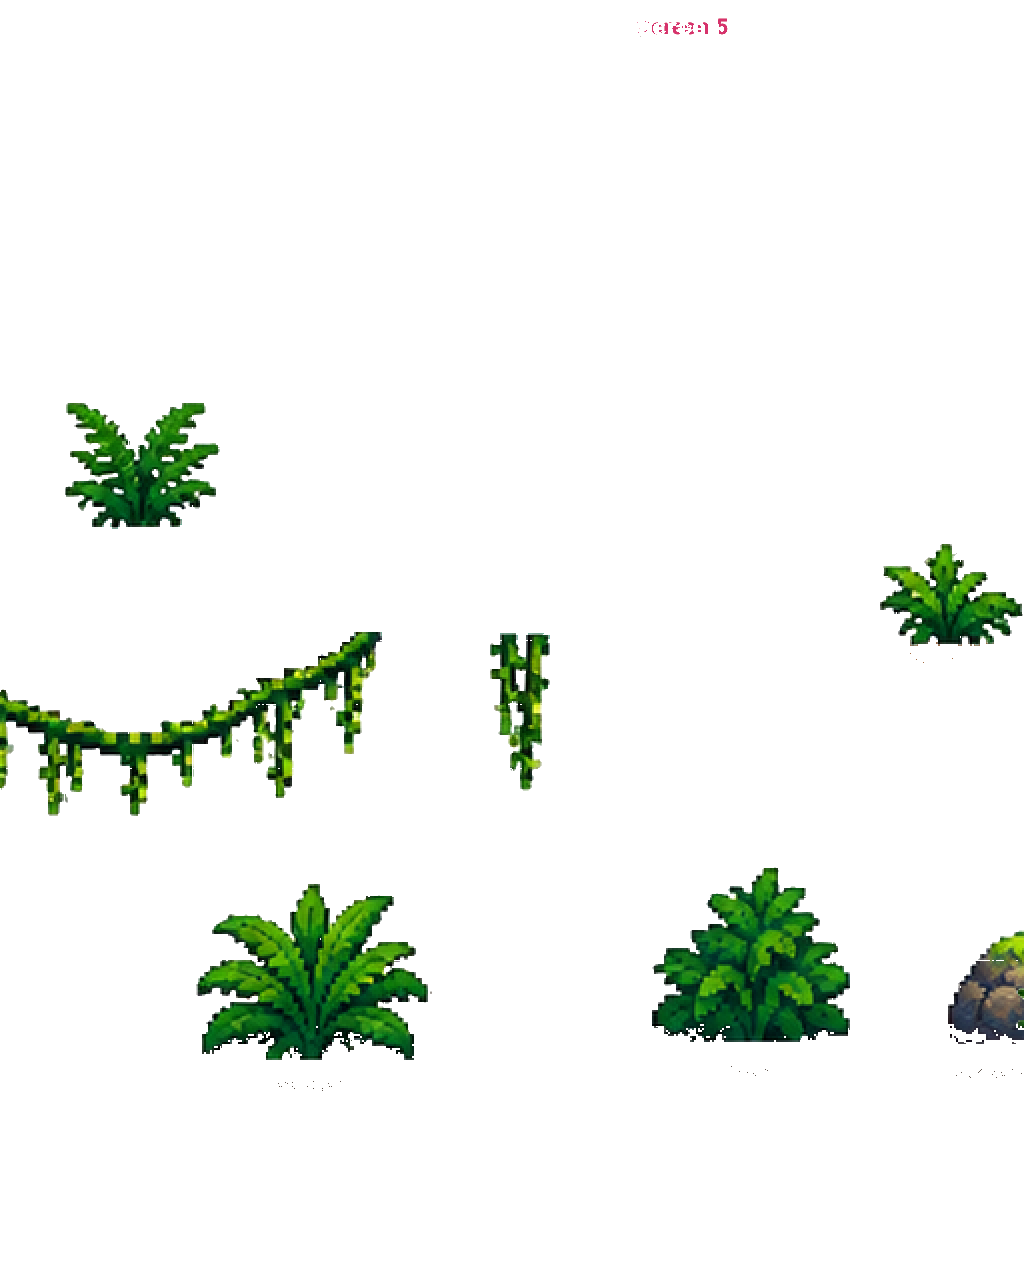
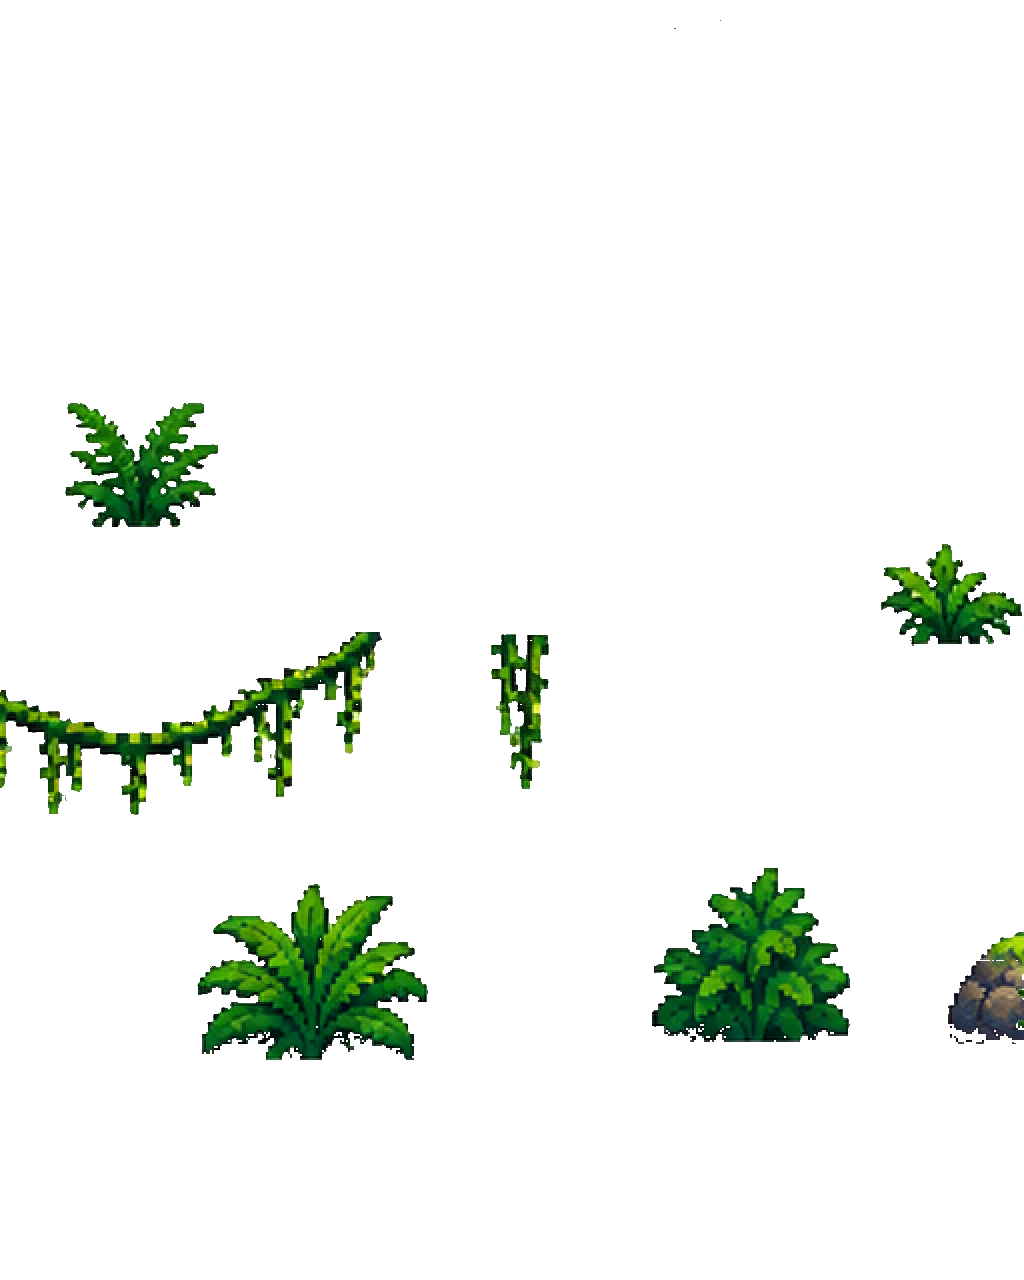
Seamless pixel ground; artist's background whole at 1:1; fringe cleaned

Changed region(s): [[0.6875, 0.0, 0.7188, 0.0312], [0.25, 0.5625, 0.2812, 0.5938]]

diff --git a/src/scenes/Platformer.js b/src/scenes/Platformer.js
@@ -27,7 +27,8 @@ const SWIM_HOP_OUT = 780;     // a stroke near the surface pops you out onto lan
 const CURRENT_LIFT = 660;
 // Hidden doors: a short fade while you slip through.
 const DOOR_FADE_MS = 160;
-const BOTTOM_ROOM = 64;        // the camera can look this far below the level's bottom
+const ARTIST_BG_SCROLL = 0.3;  // the artist's background's parallax speed
+const BOTTOM_ROOM = 64;       // the camera can look this far below the level's bottom
 
 // Energy is the row of Z-bolts on the HUD. A wild Zebonky's bump or a fall
 // into a pit costs one; a Z-bolt paw print gives one back. Run out and you
@@ -57,7 +58,9 @@ function artistArt() {
 function savedArt(art) {
   if (!art || !art.dir) return null;
   const a = {
-    background: art.background ? { url: art.dir + art.background.file, w: art.background.w } : null,
+    background: art.background && art.background.pieces
+      ? { w: art.background.w, pieces: art.background.pieces.map((p) => ({ url: art.dir + p.file, x: p.x })) }
+      : null,
     dressing: (art.dressing || []).map((d) => ({ url: art.dir + d.file, x: d.x })),
   };
   return a.background || a.dressing.length ? a : null;
@@ -138,14 +141,17 @@ export class PlatformerScene extends Phaser.Scene {
     this.add.rectangle(0, worldH + BOTTOM_ROOM, worldW, 400, 0x08100c, 0.92).setOrigin(0).setDepth(-2);
     const ground = this.art && this.art.sets && this.art.sets.ground;
     const under = ground && (ground.deep || ground.fill);
-    const underKey = under && under.length && texKey(this.artName, under[0]);
+    const skinRock = ground && ground.skin && texKey(this.artName, ground.skin.rock);
+    const underKey = skinRock && this.textures.exists(skinRock) ? skinRock : under && under.length && texKey(this.artName, under[0]);
     const bottom = rows[rows.length - 1] || '';
     for (let c = 0; c < cols;) {
       if (!SOLID_TEXTURES[bottom[c]]) { c++; continue; }
       const from = c;
       while (c < cols && SOLID_TEXTURES[bottom[c]]) c++;
       if (underKey && this.textures.exists(underKey)) {
-        this.add.tileSprite(from * TILE, worldH, (c - from) * TILE, 400, underKey).setOrigin(0).setDepth(-1);
+        const earth = this.add.tileSprite(from * TILE, worldH, (c - from) * TILE, 400, underKey).setOrigin(0).setDepth(-1);
+        // The skin's rock carries on in line with the tiles above it.
+        if (underKey === skinRock) earth.setTilePosition(from * TILE, worldH).setTint(0xe6e6e6);
       } else {
         this.add.rectangle(from * TILE, worldH, (c - from) * TILE, 400, this.blocks ? BLOCK_COLORS['#'] : 0x6b4a2e).setOrigin(0).setDepth(-1);
       }
@@ -611,6 +617,51 @@ export class PlatformerScene extends Phaser.Scene {
     return seen;
   }
 
+  // A tile-sized frame of a bigger picture, made once per spot.
+  skinFrame(key, name, sx, sy, w, h) {
+    const t = this.textures.get(key);
+    if (!t.has(name)) t.add(name, 0, sx, sy, w, h);
+    return name;
+  }
+
+  // Seamless ground (an art set's ground "skin", tools/make_floor_ground.py):
+  // each tile shows the rock wall's slice for its place in the level, so
+  // rocks run across tile edges; moss lies along the top and hangs a little
+  // over the tile below; open sides get a dark edge.
+  drawSkin(skin, isSolid, r, c, x, y) {
+    const k = (f) => texKey(this.artName, f);
+    const parts = ['rock', 'moss', 'moss_left', 'moss_right', 'edge_left', 'edge_right'];
+    if (!parts.every((n) => this.textures.exists(k(skin[n])))) return false;
+    const [rw, rh] = skin.rock_tiles;
+    const rock = k(skin.rock);
+    const img = this.add.image(x, y, rock,
+      this.skinFrame(rock, `s${c % rw}_${r % rh}`, (c % rw) * TILE, (r % rh) * TILE, TILE, TILE));
+    // A little darker each row down from the third, so there's no hard line.
+    let depth = 0;
+    while (depth < 6 && isSolid(r - depth - 1, c)) depth++;
+    const shade = Math.round(255 * Math.max(0.8, 1 - 0.05 * Math.max(0, depth - 2)));
+    if (shade < 255) img.setTint((shade << 16) | (shade << 8) | shade);
+    const openL = !isSolid(r, c - 1);
+    const openR = !isSolid(r, c + 1);
+    if (openL) this.add.image(x, y, k(skin.edge_left));
+    if (openR) this.add.image(x, y, k(skin.edge_right));
+    if (!isSolid(r - 1, c)) {
+      const left = x - TILE / 2;
+      const top = r * TILE - (skin.moss_top || 0);
+      let moss;
+      if (openL) moss = this.add.image(left, top, k(skin.moss_left));
+      else if (openR) moss = this.add.image(left, top, k(skin.moss_right));
+      else {
+        const mk = k(skin.moss);
+        const mh = this.textures.get(mk).getSourceImage().height;
+        const m = c % skin.moss_tiles;
+        moss = this.add.image(left, top, mk, this.skinFrame(mk, `m${m}`, m * TILE, 0, TILE, mh));
+      }
+      moss.setOrigin(0, 0).setDepth(0.5);
+    }
+    return true;
+  }
+
   drawArtSolid(ch, isSolid, r, c, x, y, at) {
     // Ground floating in the air is treetops, if the art set has them.
     const canopy = this.art && this.art.canopy;
@@ -627,6 +678,7 @@ export class PlatformerScene extends Phaser.Scene {
     }
     const set = this.art && this.art.sets && this.art.sets[TERRAIN_SETS[ch]];
     if (!set) return false;
+    if (set.skin && this.drawSkin(set.skin, isSolid, r, c, x, y)) return true;
     let role = solidRole(isSolid, r, c);
     // Deep ground: a few tiles under the surface the dirt turns to stone.
     if (role === 'fill' && set.deep) {
@@ -696,17 +748,24 @@ export class PlatformerScene extends Phaser.Scene {
       this.load.image(key, url);
       keys.push(key);
     };
-    if (a.background) queue('artist-bg', a.background.url);
+    const bgPieces = (a.background && a.background.pieces) || [];
+    bgPieces.forEach((p, i) => queue(`artist-bg-${i}`, p.url));
     (a.dressing || []).forEach((d, i) => queue(`artist-dress-${i}`, d.url));
     if (!keys.length) return;
     this.load.once('complete', () => {
       if (!this.sys.isActive()) return;
-      if (a.background && this.textures.exists('artist-bg')) {
+      // The whole background at 1:1, then copies after it for as far as
+      // the parallax needs.
+      if (bgPieces.length) {
         const w = a.background.w;
-        const sf = 0.3;
-        const span = (worldW - MAP_W) * sf + MAP_W + w;
-        for (let x = 0; x < span; x += w) {
-          this.add.image(x, worldH, 'artist-bg').setOrigin(0, 1).setScrollFactor(sf, 1).setDepth(-10);
+        const sf = ARTIST_BG_SCROLL;
+        const span = (worldW - MAP_W) * sf + MAP_W;
+        for (let x0 = 0; x0 < span; x0 += w) {
+          bgPieces.forEach((p, i) => {
+            if (this.textures.exists(`artist-bg-${i}`)) {
+              this.add.image(x0 + p.x, worldH, `artist-bg-${i}`).setOrigin(0, 1).setScrollFactor(sf, 1).setDepth(-10);
+            }
+          });
         }
       }
       (a.dressing || []).forEach((d, i) => {

diff --git a/designer/artist.js b/designer/artist.js
@@ -37,6 +37,47 @@ function toGameSize(src, sx, sy, sw, sh) {
   return cv;
 }
 
+// The pale fringe round the artist's shapes: edge pixels blended with the
+// white paper he painted on. Twice round the edge, drop the pixels that
+// are part see-through, pale grey, or pinkish.
+function cleanFringe(cv, passes = 2) {
+  const g = ctx(cv);
+  const img = g.getImageData(0, 0, cv.width, cv.height);
+  const a = img.data;
+  const w = cv.width;
+  const h = cv.height;
+  for (let pass = 0; pass < passes; pass++) {
+    const drop = [];
+    for (let y = 0; y < h; y++) {
+      for (let x = 0; x < w; x++) {
+        const i = (y * w + x) * 4;
+        if (!a[i + 3]) continue;
+        const open = (xx, yy) => xx < 0 || yy < 0 || xx >= w || yy >= h || !a[(yy * w + xx) * 4 + 3];
+        if (!(open(x - 1, y) || open(x + 1, y) || open(x, y - 1) || open(x, y + 1))) continue;
+        const r = a[i];
+        const gr = a[i + 1];
+        const b = a[i + 2];
+        const lum = (r + gr + b) / 3;
+        const sat = Math.max(r, gr, b) - Math.min(r, gr, b);
+        if (a[i + 3] < 250 || (lum > 130 && sat < 70) || (r > gr + 15 && lum > 110)) drop.push(i);
+      }
+    }
+    drop.forEach((i) => { a[i + 3] = 0; });
+  }
+  g.putImageData(img, 0, 0);
+  return cv;
+}
+
+// A picture at game size, in pieces narrow enough for any graphics card.
+function inPieces(src, sw, sh) {
+  const pieces = [];
+  const stripW = PIECE * ART_SCALE;
+  for (let x0 = 0; x0 < sw; x0 += stripW) {
+    pieces.push({ canvas: toGameSize(src, x0, 0, Math.min(stripW, sw - x0), sh), x: x0 / ART_SCALE });
+  }
+  return pieces;
+}
+
 // How wide one copy is when a strip is repeated across, or 0.
 function repeatWidth(bitmap) {
   const W = 1600;
@@ -97,16 +138,19 @@ function repeatWidth(bitmap) {
   return exact;
 }
 
+// The whole picture, 1:1 with the level as painted. The game lays a second
+// copy after the end, so it can scroll at its own (parallax) speed without
+// running out; a picture that tiles joins itself cleanly.
 async function makeBackground(bitmap) {
   const p = repeatWidth(bitmap);
-  const w = p || bitmap.width;
-  const tile = toGameSize(bitmap, 0, 0, w, bitmap.height);
+  const pieces = inPieces(bitmap, bitmap.width, bitmap.height);
+  const w = Math.round(bitmap.width / ART_SCALE);
+  const h = Math.round(bitmap.height / ART_SCALE);
   return {
-    canvas: tile,
-    repeats: !!p,
-    note: p
-      ? `Background: one ${w} px strip, repeated ${Math.round(bitmap.width / p)} times in the file, cut out to repeat in the game (${tile.width} x ${tile.height} game px).`
-      : `Background: no repeat found, so the whole picture is used (${tile.width} x ${tile.height} game px).`,
+    pieces,
+    w,
+    h,
+    note: `Background: the whole picture, 1:1 with the level (${w} x ${h} game px)${p ? `; it tiles (a ${Math.round(p / ART_SCALE)} px strip repeats), so the copy after it joins cleanly` : ''}.`,
   };
 }
 
@@ -177,13 +221,13 @@ async function makeDressing(bitmap, rows, levelName) {
     }
     for (let i = 3; i < a.length; i += 4) if (a[i]) kept++;
     ga.putImageData(A, 0, 0);
-    const piece = toGameSize(art, 0, 0, w, h);
+    const piece = cleanFringe(toGameSize(art, 0, 0, w, h));
     pieces.push({ canvas: piece, x: x0 / ART_SCALE });
   }
   guideImg.close();
   return {
     pieces,
-    note: `Dressing: the guide was taken out, leaving ${Math.round(kept / (ART_SCALE * ART_SCALE)).toLocaleString()} game pixels of the artist's art, placed 1:1 with the level.`,
+    note: `Dressing: the guide was taken out, leaving ${Math.round(kept / (ART_SCALE * ART_SCALE)).toLocaleString()} game pixels of the artist's art (pale fringe round his shapes cleaned off), placed 1:1 with the level.`,
   };
 }
 

diff --git a/designer/designer.js b/designer/designer.js
@@ -245,7 +245,9 @@ async function uploadArt(id) {
   };
   const art = { dir: `assets/levels/art/${id}/` };
   if (artistReady.background) {
-    art.background = { file: await put('background.png', artistReady.background.url), w: artistReady.background.w };
+    const b = artistReady.background;
+    art.background = { w: b.w, pieces: [] };
+    for (const [i, p] of b.pieces.entries()) art.background.pieces.push({ file: await put(`background-${i}.png`, p.url), x: p.x });
   }
   art.dressing = [];
   for (const [i, d] of artistReady.dressing.entries()) {
@@ -313,10 +315,12 @@ const blobUrl = (cv) => new Promise((resolve, reject) => {
   cv.toBlob((b) => (b ? resolve(URL.createObjectURL(b)) : reject(new Error('Could not keep the picture.'))), 'image/png');
 });
 
+function forgetUrls(ready) {
+  [...((ready.background && ready.background.pieces) || []), ...(ready.dressing || [])].forEach((p) => URL.revokeObjectURL(p.url));
+}
+
 function forgetArtist() {
-  if (artistReady) {
-    [artistReady.background, ...(artistReady.dressing || [])].forEach((p) => p && URL.revokeObjectURL(p.url));
-  }
+  if (artistReady) forgetUrls(artistReady);
   artist = {};
   artistReady = null;
   window.tmsArtistArt = null;
@@ -343,13 +347,12 @@ async function openArtist(files) {
     if (got.dressing) artist.dressing = got.dressing;
     const old = artistReady;
     const bg = artist.background;
+    const asUrls = (pieces) => Promise.all(pieces.map(async (p) => ({ url: await blobUrl(p.canvas), x: p.x, w: p.canvas.width, h: p.canvas.height })));
     artistReady = {
-      background: bg ? { url: await blobUrl(bg.canvas), w: bg.canvas.width, h: bg.canvas.height } : null,
-      dressing: artist.dressing
-        ? await Promise.all(artist.dressing.pieces.map(async (p) => ({ url: await blobUrl(p.canvas), x: p.x, w: p.canvas.width, h: p.canvas.height })))
-        : [],
+      background: bg ? { pieces: await asUrls(bg.pieces), w: bg.w, h: bg.h } : null,
+      dressing: artist.dressing ? await asUrls(artist.dressing.pieces) : [],
     };
-    if (old) [old.background, ...(old.dressing || [])].forEach((p) => p && URL.revokeObjectURL(p.url));
+    if (old) forgetUrls(old);
     $('artnotes').innerHTML = [artist.background, artist.dressing].filter(Boolean).map((x) => `<li>${x.note}</li>`).join('');
     showArtistThumbs();
     $('useart').disabled = false;
@@ -368,13 +371,12 @@ async function openArtist(files) {
 // along the level.
 function showArtistThumbs() {
   $('artthumbs').hidden = false;
-  const bg = artist.background && artist.background.canvas;
+  const bg = artist.background;
   if (bg) {
-    const s = 600 / bg.height;
-    const cv = Object.assign(document.createElement('canvas'), { width: Math.round(bg.width * 2 * s), height: 600 });
+    const s = 0.15;
+    const cv = Object.assign(document.createElement('canvas'), { width: Math.round(bg.w * s), height: Math.round(bg.h * s) });
     const g = cv.getContext('2d');
-    g.drawImage(bg, 0, 0, bg.width * s, 600);
-    g.drawImage(bg, bg.width * s, 0, bg.width * s, 600);
+    bg.pieces.forEach((p) => g.drawImage(p.canvas, p.x * s, 0, p.canvas.width * s, bg.h * s));
     $('artbg').src = cv.toDataURL('image/jpeg', 0.85);
   }
   const d = artist.dressing;

diff --git a/src/scenes/Boot.js b/src/scenes/Boot.js
@@ -46,6 +46,9 @@ export class BootScene extends Phaser.Scene {
         const add = (f) => f && files.add(f);
         Object.values(data.sets || {}).forEach((set) => Object.values(set)
           .filter(Array.isArray).flat().forEach(add));
+        // Seamless ground: its pictures are the .png entries of the skin.
+        Object.values(data.sets || {}).forEach((set) => set.skin && Object.values(set.skin)
+          .filter((v) => typeof v === 'string' && v.endsWith('.png')).forEach(add));
         Object.values(data.platform || {}).flat().forEach(add);
         (data.scatter || []).forEach(add);
         (data.background || []).forEach((b) => {

diff --git a/designer/index.html b/designer/index.html
@@ -134,7 +134,7 @@
     </div>
     <ul class="warn" id="artnotes"></ul>
     <div class="thumbs" id="artthumbs" hidden>
-      <figure><img id="artbg" alt="Artist's background"><figcaption>Background, as it repeats in the game</figcaption></figure>
+      <figure><img id="artbg" alt="Artist's background"><figcaption>Background, the whole picture (a copy follows it in the game)</figcaption></figure>
       <figure><img id="artdress" alt="Artist's dressing"><figcaption>Dressing, with the guide taken out</figcaption></figure>
     </div>
   </section>

diff --git a/designer/README.md b/designer/README.md
@@ -156,6 +156,15 @@ The art lives in `assets/artsets/<name>/`, described by `artset.json`:
   role and the game picks between them per tile (always the same pick for the
   same spot). `sand` and `rock` sets work the same way; until they exist,
   those tiles use the concept boxes.
+- `skin` (in a ground set, optional): seamless ground instead of tiles by
+  role. `rock` is one big rock-wall picture that wraps both ways
+  (`rock_tiles`: its size in tiles); each ground tile shows the slice for
+  its place in the level, so rocks run across tile edges. `moss` is a
+  wrapping band (`moss_tiles` wide) laid on every top surface, hanging
+  `moss_top` px above the tile; `moss_left` / `moss_right` are its ends at
+  a ledge, `edge_left` / `edge_right` the outline on open sides; tiles
+  `deep_from` rows down are shaded darker. `rainforest_floor` has one,
+  made by `tools/make_floor_ground.py` from the pack's colours and moss.
 - `platform`: `left`, `mid`, `right`, `single` (64 x 28).
 - `platform_decor`: pictures set on top of platforms now and then
   (`platform_decor_chance` of the tiles).
